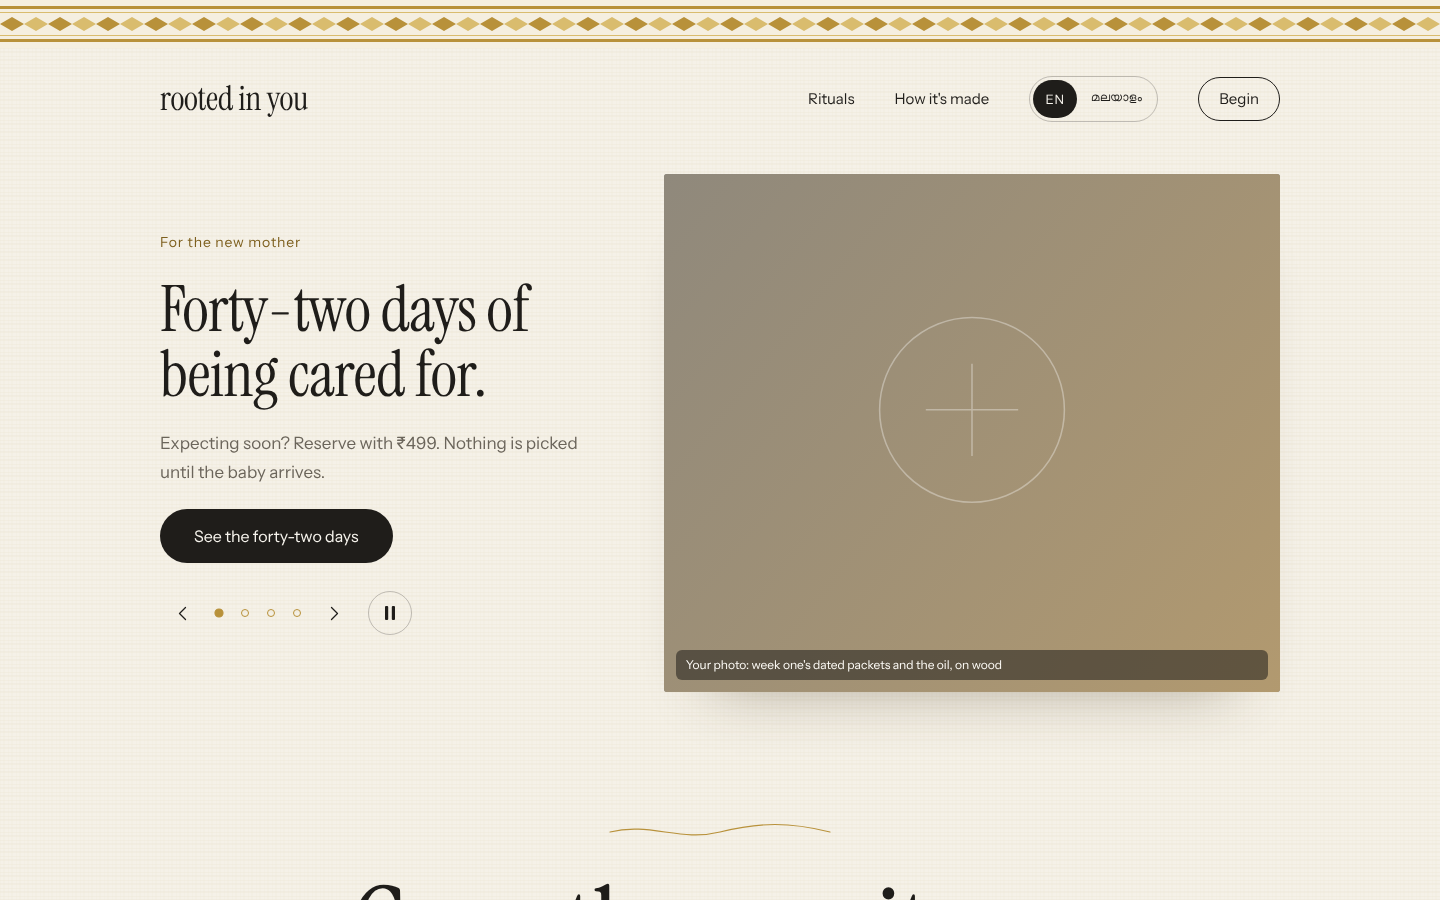
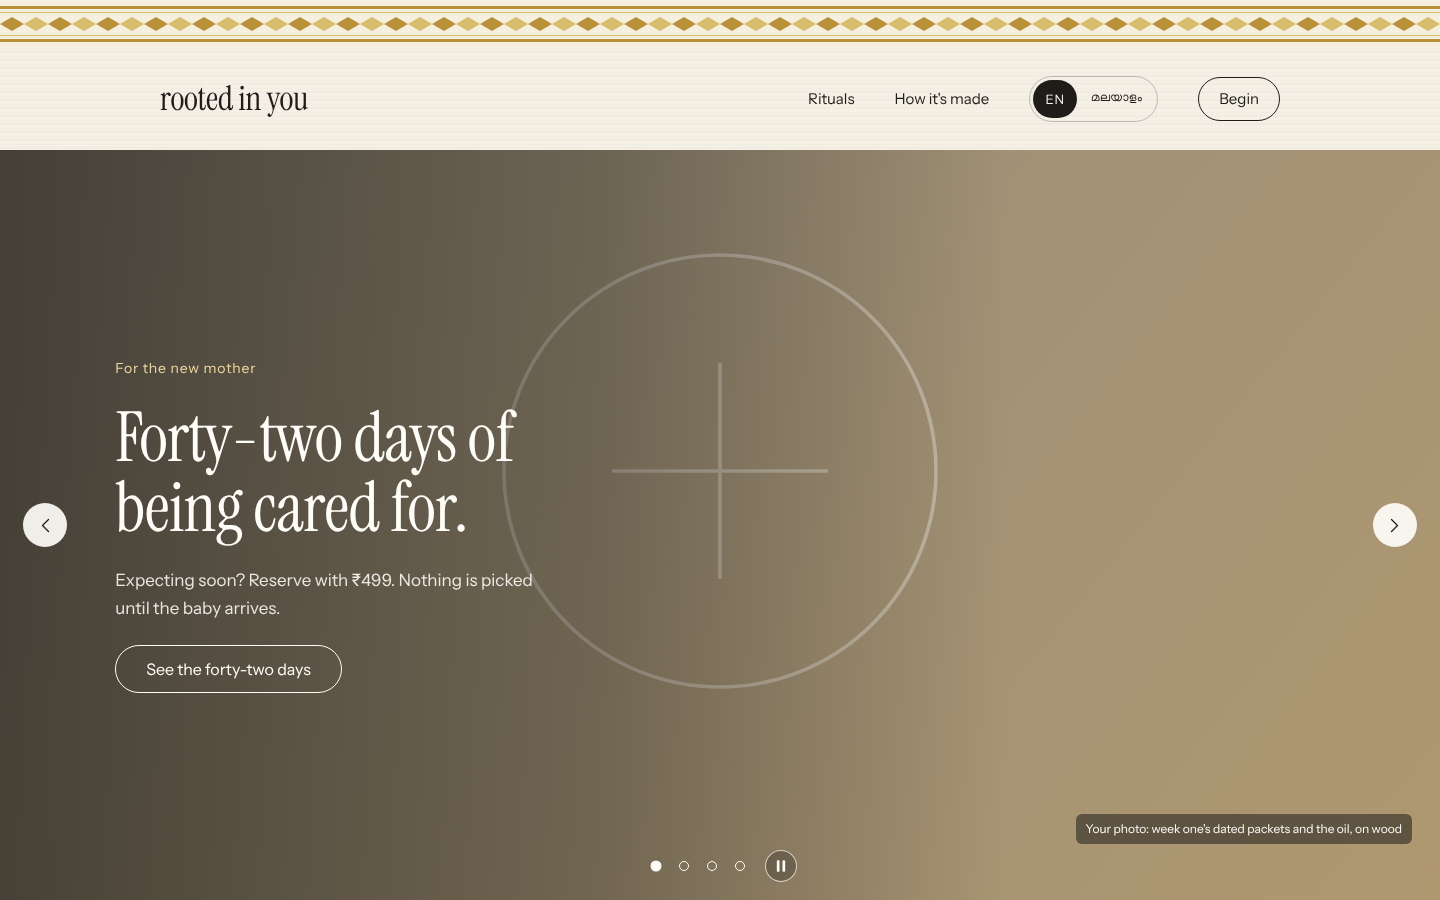
Make home carousel full-bleed, modelled on The Ordinary's hero
Claude-Session: https://claude.ai/code/session_01Ls3hi7FgJfyvH5y7sfR9T8

diff --git a/frontend/src/components/Carousel.jsx b/frontend/src/components/Carousel.jsx
@@ -1,6 +1,5 @@
 import { useEffect, useState } from 'react'
 import { T } from '../lang'
-import { Photo } from './bits'
 
 const slides = [
   { n: 1, href: '#mother', eyebrow: ['For the new mother', 'പുതിയ അമ്മയ്ക്ക്'], title: ['Forty-two days of being cared for.', 'കരുതലിന്റെ നാൽപ്പത്തിരണ്ട് ദിവസങ്ങൾ.'], body: ['Expecting soon? Reserve with ₹499. Nothing is picked until the baby arrives.', 'ഉടൻ പ്രതീക്ഷിക്കുന്നുണ്ടോ? ₹499 കൊണ്ട് ഉറപ്പിക്കാം. കുഞ്ഞ് എത്തുന്നതുവരെ ഒന്നും പറിക്കില്ല.'], cta: ['See the forty-two days', 'നാൽപ്പത്തിരണ്ട് ദിവസങ്ങൾ കാണാം'], alt: "Week one's dated packets of kanji mix and a bottle of oil, on wood", note: "Your photo: week one's dated packets and the oil, on wood" },
@@ -28,7 +27,7 @@ export default function Carousel() {
 
   return (
     <section
-      className="kz-hero wrap"
+      className="kz-hero"
       aria-roledescription="carousel"
       aria-label="Featured rituals"
       onMouseEnter={() => setHover(true)}
@@ -36,40 +35,40 @@ export default function Carousel() {
       onFocus={() => setHover(true)}
       onBlur={() => setHover(false)}
     >
-      <div className="kz-slides">
-        {slides.map((s, idx) => (
-          <div key={idx} className={`kz-slide${idx === i ? ' on' : ''}`} role="group" aria-roledescription="slide" aria-label={`${idx + 1} of ${count}`} aria-hidden={idx !== i}>
-            <div className="kz-stext">
-              <p className="eyebrow"><T en={s.eyebrow[0]} ml={s.eyebrow[1]} /></p>
-              <h2 className="serif"><T en={s.title[0]} ml={s.title[1]} /></h2>
-              <p className="lede"><T en={s.body[0]} ml={s.body[1]} /></p>
-              <a className="btn" href={s.href} tabIndex={idx === i ? 0 : -1}><T en={s.cta[0]} ml={s.cta[1]} /></a>
-              <div className="kz-ctrls">
-                <button type="button" className="kz-ctl" aria-label="Previous banner" onClick={() => go(i - 1)}>
-                  <svg aria-hidden="true" width="9" height="15" viewBox="0 0 9 15" fill="none" stroke="#1F1D1A" strokeWidth="1.3" strokeLinecap="round" strokeLinejoin="round"><path d="M7.5 1.5L1.5 7.5l6 6" /></svg>
-                </button>
-                <span style={{ display: 'inline-flex', alignItems: 'center' }}>
-                  {slides.map((_, d) => (
-                    <button type="button" key={d} className="kz-dotl" aria-label={`Show banner ${d + 1} of ${count}`} aria-current={d === i} onClick={() => go(d)}>
-                      <i className={d === i ? 'kz-cur' : ''} />
-                    </button>
-                  ))}
-                </span>
-                <button type="button" className="kz-ctl" aria-label="Next banner" onClick={() => go(i + 1)}>
-                  <svg aria-hidden="true" width="9" height="15" viewBox="0 0 9 15" fill="none" stroke="#1F1D1A" strokeWidth="1.3" strokeLinecap="round" strokeLinejoin="round"><path d="M1.5 1.5l6 6-6 6" /></svg>
-                </button>
-                <button type="button" className="kz-ctl kz-pausel" aria-label="Pause or play the banner" aria-pressed={paused} onClick={() => setPaused((p) => !p)}>
-                  {paused ? (
-                    <svg aria-hidden="true" width="12" height="14" viewBox="0 0 12 14" fill="#1F1D1A"><path d="M1.5 0.8l9.5 6.2-9.5 6.2z" /></svg>
-                  ) : (
-                    <svg aria-hidden="true" width="12" height="14" viewBox="0 0 12 14" fill="#1F1D1A"><rect x="1" width="3.2" height="14" rx="1" /><rect x="7.8" width="3.2" height="14" rx="1" /></svg>
-                  )}
-                </button>
-              </div>
-            </div>
-            <Photo className="kz-sphoto" n={s.n} alt={s.alt} note={s.note} />
+      {slides.map((s, idx) => (
+        <div key={idx} className={`kz-slide${idx === i ? ' on' : ''}`} role="group" aria-roledescription="slide" aria-label={`${idx + 1} of ${count}`} aria-hidden={idx !== i}>
+          <img className="kz-bg" src={`${import.meta.env.BASE_URL}placeholders/p${s.n}.svg`} alt={s.alt} />
+          <div className="kz-scrim" />
+          <div className="kz-stext wrap">
+            <p className="eyebrow"><T en={s.eyebrow[0]} ml={s.eyebrow[1]} /></p>
+            <h2 className="serif"><T en={s.title[0]} ml={s.title[1]} /></h2>
+            <p className="lede"><T en={s.body[0]} ml={s.body[1]} /></p>
+            <a className="kz-hero-btn" href={s.href} tabIndex={idx === i ? 0 : -1}><T en={s.cta[0]} ml={s.cta[1]} /></a>
           </div>
+          <span className="note kz-bgnote">{s.note}</span>
+        </div>
+      ))}
+
+      <button type="button" className="kz-arrow kz-prev" aria-label="Previous banner" onClick={() => go(i - 1)}>
+        <svg aria-hidden="true" width="9" height="15" viewBox="0 0 9 15" fill="none" stroke="currentColor" strokeWidth="1.3" strokeLinecap="round" strokeLinejoin="round"><path d="M7.5 1.5L1.5 7.5l6 6" /></svg>
+      </button>
+      <button type="button" className="kz-arrow kz-next" aria-label="Next banner" onClick={() => go(i + 1)}>
+        <svg aria-hidden="true" width="9" height="15" viewBox="0 0 9 15" fill="none" stroke="currentColor" strokeWidth="1.3" strokeLinecap="round" strokeLinejoin="round"><path d="M1.5 1.5l6 6-6 6" /></svg>
+      </button>
+
+      <div className="kz-ctrls">
+        {slides.map((_, d) => (
+          <button type="button" key={d} className="kz-dotl" aria-label={`Show banner ${d + 1} of ${count}`} aria-current={d === i} onClick={() => go(d)}>
+            <i className={d === i ? 'kz-cur' : ''} />
+          </button>
         ))}
+        <button type="button" className="kz-pausel" aria-label="Pause or play the banner" aria-pressed={paused} onClick={() => setPaused((p) => !p)}>
+          {paused ? (
+            <svg aria-hidden="true" width="10" height="12" viewBox="0 0 12 14" fill="currentColor"><path d="M1.5 0.8l9.5 6.2-9.5 6.2z" /></svg>
+          ) : (
+            <svg aria-hidden="true" width="10" height="12" viewBox="0 0 12 14" fill="currentColor"><rect x="1" width="3.2" height="14" rx="1" /><rect x="7.8" width="3.2" height="14" rx="1" /></svg>
+          )}
+        </button>
       </div>
     </section>
   )

diff --git a/frontend/src/styles.css b/frontend/src/styles.css
@@ -49,24 +49,36 @@ a.kz-cta:hover{background:var(--ink);color:var(--paper)}
 .note{position:absolute;left:12px;right:12px;bottom:12px;font-size:12px;line-height:1.35;color:#FFFDF8;background:rgba(31,29,26,.55);padding:7px 10px;border-radius:6px}
 .note.inline{position:static;align-self:flex-start;display:inline-block}
 
-/* carousel */
-.kz-hero{padding-top:clamp(8px,2vw,24px)}
-.kz-slides{display:grid}
-.kz-slide{grid-area:1/1;display:grid;grid-template-columns:minmax(0,5fr) minmax(0,7fr);gap:clamp(28px,4.4vw,72px);align-items:center;opacity:0;visibility:hidden;transition:opacity .9s ease,visibility .9s}
+/* carousel: full-bleed, fills the first screen under the header */
+.kz-hero{position:relative;width:100%;height:calc(100svh - 150px);min-height:540px;max-height:960px;overflow:hidden;background:#3A4642;color:#FFFDF8}
+.kz-slide{position:absolute;inset:0;opacity:0;visibility:hidden;transition:opacity .9s ease,visibility .9s}
 .kz-slide.on{opacity:1;visibility:visible}
-.kz-stext{display:flex;flex-direction:column;align-items:flex-start;gap:22px;min-width:0}
-.kz-sphoto{height:clamp(300px,36vw,520px)}
-.eyebrow{margin:0;font-size:14px;letter-spacing:.06em;color:var(--gold-dd)}
-.kz-slide h2{margin:0;font-weight:400;font-size:clamp(38px,4.6vw,64px);line-height:1.02;letter-spacing:-.01em}
-.kz-slide p.lede{margin:0;max-width:38ch;color:var(--muted)}
-.kz-ctrls{display:flex;align-items:center;gap:2px;margin-top:6px}
-.kz-ctl{display:inline-flex;align-items:center;justify-content:center;width:44px;height:44px;border-radius:50%;border:0;background:none;cursor:pointer;transition:background .5s ease}
-.kz-ctl:hover{background:rgba(31,29,26,.06)}
-.kz-pausel{margin-left:10px;border:1px solid rgba(31,29,26,.25)}
+.kz-bg{position:absolute;inset:0;width:100%;height:100%;object-fit:cover}
+.kz-scrim{position:absolute;inset:0;background:linear-gradient(90deg,rgba(20,18,14,.62) 0%,rgba(20,18,14,.34) 42%,rgba(20,18,14,0) 70%)}
+.kz-stext{position:relative;height:100%;max-width:none;width:100%;display:flex;flex-direction:column;align-items:flex-start;justify-content:center;gap:22px;padding-left:clamp(56px,8vw,140px);padding-right:clamp(56px,8vw,140px)}
+.kz-stext>*{max-width:min(520px,100%)}
+.eyebrow{margin:0;font-size:14px;letter-spacing:.06em;color:#F0D9A0}
+.kz-slide h2{margin:0;font-weight:400;font-size:clamp(40px,4.8vw,72px);line-height:1.02;letter-spacing:-.01em;color:#FFFDF8}
+.kz-slide p.lede{margin:0;max-width:38ch;color:rgba(255,253,248,.88)}
+.kz-hero-btn{display:inline-flex;align-items:center;min-height:48px;padding:0 30px;border:1px solid #FFFDF8;border-radius:999px;color:#FFFDF8;font-size:16px;text-decoration:none;transition:background .5s ease,color .5s ease}
+.kz-hero-btn:hover,.kz-hero-btn:focus-visible{background:#FFFDF8;color:var(--ink)}
+.kz-bgnote{left:auto;right:clamp(16px,2vw,28px);bottom:56px;max-width:min(380px,60vw)}
+.kz-arrow{position:absolute;top:50%;transform:translateY(-50%);width:44px;height:44px;border-radius:50%;border:0;background:rgba(255,253,248,.92);color:var(--ink);display:inline-flex;align-items:center;justify-content:center;cursor:pointer;transition:background .4s ease,transform .4s ease;z-index:2}
+.kz-arrow:hover{background:#fff}
+.kz-prev{left:clamp(12px,1.6vw,24px)}.kz-next{right:clamp(12px,1.6vw,24px)}
+.kz-ctrls{position:absolute;left:0;right:0;bottom:12px;display:flex;align-items:center;justify-content:center;gap:2px;z-index:2}
 .kz-dotl{display:inline-flex;align-items:center;justify-content:center;width:26px;height:44px;cursor:pointer;border:0;background:none;padding:0}
-.kz-dotl i{display:block;width:8px;height:8px;border-radius:50%;border:1px solid var(--gold);transition:background .5s ease,transform .5s ease}
-.kz-dotl i.kz-cur{background:var(--gold);transform:scale(1.15)}
-@media (max-width:860px){.kz-slide{grid-template-columns:1fr;gap:22px}.kz-sphoto{order:-1}}
+.kz-dotl i{display:block;width:10px;height:10px;border-radius:50%;border:1px solid #FFFDF8;transition:background .5s ease,transform .5s ease}
+.kz-dotl i.kz-cur{background:#FFFDF8;transform:scale(1.1)}
+.kz-pausel{margin-left:10px;width:32px;height:32px;border-radius:50%;border:1px solid rgba(255,253,248,.7);background:rgba(20,18,14,.25);color:#FFFDF8;display:inline-flex;align-items:center;justify-content:center;cursor:pointer}
+.kz-hero a:focus-visible,.kz-hero button:focus-visible{outline-color:#F0D9A0}
+@media (max-width:860px){
+.kz-hero{height:calc(100svh - 130px);min-height:520px}
+.kz-scrim{background:linear-gradient(0deg,rgba(20,18,14,.72) 0%,rgba(20,18,14,.35) 55%,rgba(20,18,14,0) 85%)}
+.kz-stext{justify-content:flex-end;padding:0 clamp(16px,5vw,40px) 76px}
+.kz-arrow{display:none}
+.kz-bgnote{display:none}
+}
 
 /* hero */
 .kz-top{padding-top:clamp(72px,9vw,128px);padding-bottom:clamp(56px,7vw,96px);display:flex;flex-direction:column;align-items:center;text-align:center;gap:30px}
@@ -150,4 +162,4 @@ a.kz-cta:hover{background:var(--ink);color:var(--paper)}
 .kz-footer .links{display:flex;flex-wrap:wrap;gap:8px 28px}
 .kz-footer .legal{flex-basis:100%;font-size:12px;line-height:1.6}
 
-@media (prefers-reduced-motion:reduce){.kz-kasavu::after{animation:none;display:none}.kz-thread{animation:none;stroke-dashoffset:0}details::details-content,.kz-slide,.kz-img img,.kz-chip,a.kz-cta,.kz-ctl,.kz-dotl i{transition:none}.kz-card:hover .kz-img img{transform:none}}
+@media (prefers-reduced-motion:reduce){.kz-kasavu::after{animation:none;display:none}.kz-thread{animation:none;stroke-dashoffset:0}details::details-content,.kz-slide,.kz-img img,.kz-chip,a.kz-cta,.kz-arrow,.kz-hero-btn,.kz-dotl i{transition:none}.kz-card:hover .kz-img img{transform:none}}
